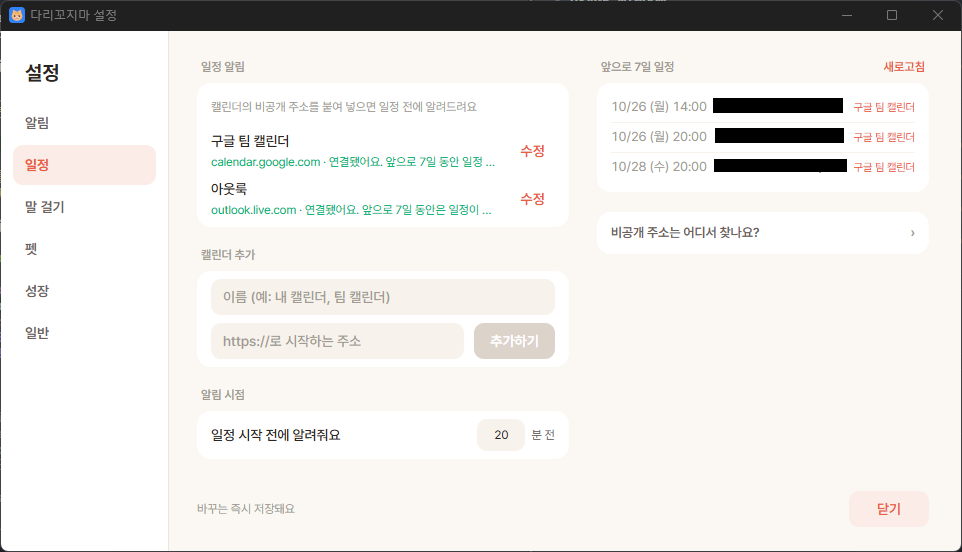
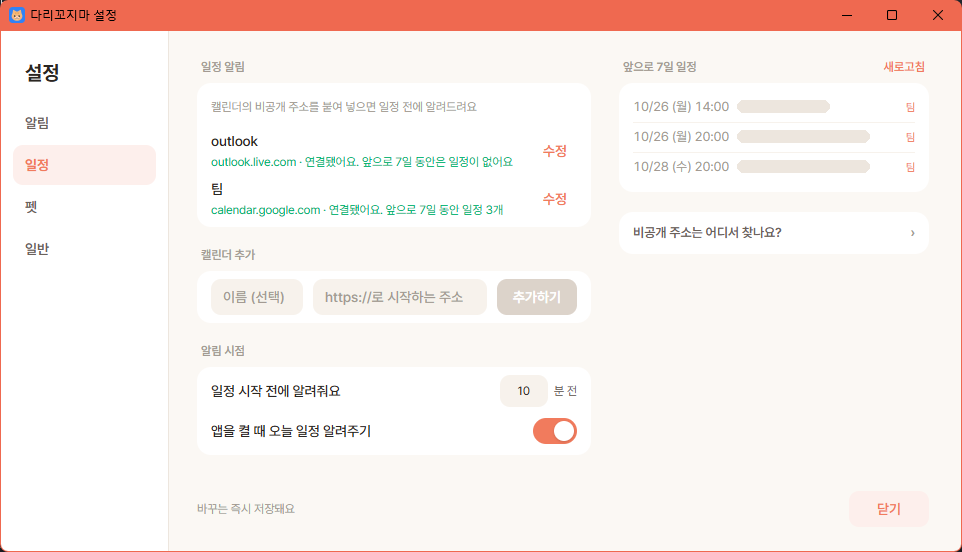
docs: README 설정 탭 4개 기준으로 스크린샷·설명 갱신
일정 탭 스크린샷의 일정 제목은 가림 처리

diff --git a/README.md b/README.md
@@ -38,7 +38,8 @@ Mac에서는 아직 전체화면 앱을 감지하지 않아서, 발표 중에도
 | 하고 싶은 것 | 방법 |
 |---|---|
 | 펫 옮기기 | 펫을 끌어서 놓아요. 다음에 켜도 그 자리에 있어요. 끄는 동안 펫이 달려가거나 헤엄쳐요. 화면 밖으로 너무 밀면 싫다며 돌아오지만, 한 번 더 밀면 따라 줘요. |
-| 펫과 놀기 | 마우스를 올리면 웃고, 클릭하면 한마디를 해요. |
+| 펫과 놀기 | 마우스를 올리면 웃고, 클릭하면 한마디를 해요. 꾹 누르고 있으면 버둥거려요. |
+| 펫 재우기 | 키보드와 마우스를 10분 넘게 쓰지 않으면 펫이 엎드려 잠들어요. 돌아와서 움직이면 깨요. |
 | 알림에 답하기 | 말풍선의 **했어요**를 누르면 닫혀요. **5분 뒤에 다시**는 5분 뒤에 다시 알려 주고, **오늘은 그만**은 그 알림만 내일까지 꺼요. |
 | 설정 열기 | 펫을 오른쪽 클릭하거나, 작업표시줄 오른쪽 아래(숨겨진 아이콘 포함) 트레이 아이콘의 **설정**을 눌러요. |
 | 조용히 하기 | 펫 우클릭 → **조용히 하기**. 펫 입에 X자 테이프가 붙고, **다시 말 걸기**를 누를 때까지 말을 걸지 않아요 (트레이 메뉴에도 있어요) |
@@ -58,17 +59,19 @@ Mac에서는 아직 전체화면 앱을 감지하지 않아서, 발표 중에도
 | 점심시간 30분 전 | "점심 뭐 먹을까요?" **추천해 줘요**를 누르면 메뉴를 골라 줘요. 마음에 안 들면 **다시**. |
 | 퇴근 3시간 전, 1시간 전 | "퇴근까지 1시간이에요" |
 | 퇴근 5분 전 | "오늘도 수고했어요" (금요일은 주말 인사) |
-| 근무 중 가끔 (35~80분마다) | "심심하네요… 바쁘신가요?" 자고 있었으면 하품하며 깨서 말해요. |
+| 근무 중 가끔 (35~80분마다) | "심심하네요… 바쁘신가요?" |
 
 점심 메뉴는 펫을 오른쪽 클릭 → **부탁하기** → **점심 메뉴 추천**으로 아무 때나 뽑을 수도 있어요. 조용히 모드나 전체화면 중에는 말을 걸지 않아요.
 
 ## 설정하기
 
-설정 창은 왼쪽 메뉴의 **알림**, **일정**, **말 걸기**, **펫**, **성장**, **일반** 여섯 탭이에요. 바꾸는 즉시 저장되고 펫에게도 바로 반영돼요. 다 고쳤으면 **닫기**만 누르면 돼요.
+설정 창은 왼쪽 메뉴의 **알림**, **일정**, **펫**, **일반** 네 탭이에요. 바꾸는 즉시 저장되고 펫에게도 바로 반영돼요. 다 고쳤으면 **닫기**만 누르면 돼요.
 
 **알림 탭**
 - **알려줄 것들:** 다리 꼬지 않기, 허리 펴기, 물 마시기, 스트레칭을 켜고 끄고, 몇 분마다 알려 줄지 정해요. 아래 입력창에 "약 먹기"처럼 쓰고 **추가하기**를 누르면 내가 만든 알림도 넣을 수 있어요.
+- **펫이 먼저 말 걸기:** 켤 때 인사, 점심 메뉴 추천, 퇴근 카운트다운, 퇴근 인사, 심심할 때 수다를 눌러서 켜고 꺼요. 마우스를 올리면 자세한 설명이 보여요.
 - **알림 시간:** 일하는 시간, 요일, 점심시간을 정해요. 이 밖의 시간에는 알리지 않아요.
+- **점심 메뉴:** **수정**을 누르면 룰렛에 나오는 메뉴를 추가하거나 지울 수 있어요.
 
 <img src="docs/screenshots/settings-remind.png" alt="설정 - 알림 탭" width="640">
 
@@ -79,30 +82,18 @@ Mac에서는 아직 전체화면 앱을 감지하지 않아서, 발표 중에도
 
 <img src="docs/screenshots/settings-calendar.png" alt="설정 - 일정 탭" width="640">
 
-**말 걸기 탭**
-- **펫이 먼저 말을 걸어요:** 앱을 켤 때 인사, 점심 메뉴 추천, 퇴근 알림, 퇴근 5분 전 인사, 가끔 심심하다고 말 걸기를 각각 켜고 끌 수 있어요.
-- **점심 메뉴:** 기본 메뉴가 들어 있어요. 내가 자주 가는 메뉴를 추가하거나, 싫은 메뉴를 지울 수 있어요.
-
-<img src="docs/screenshots/settings-talk.png" alt="설정 - 말 걸기 탭" width="640">
-
 **펫 탭**
-- **펫 고르기:** 고양이, 강아지, 토끼, AI봇 중에 눌러서 고르면 펫이 바로 바뀌어 보여요. 펫마다 이름과 색깔(4가지)을 정할 수 있어요.
-- **펫 크기:** 슬라이더로 50%에서 150% 사이로 정해요. 움직이는 동안 바로 보여요.
-- **펫 아래 표시:** 레벨과 이름을 펫 아래에 보일지 정해요.
+- **미리보기:** 지금 입은 옷 그대로 펫이 보이고, 아래에 친밀도 레벨이 있어요. 알림에 **했어요**를 누르거나, 펫을 쓰다듬거나, 인사를 받으면 친해져요. 보통 일주일쯤이면 최고 레벨(Lv.10)이 되고, 레벨이 오를수록 말투가 편해지고 하는 말도 늘어요.
+- **종류, 이름, 색깔:** 고양이, 강아지, 토끼, AI봇 중에 고르고, 펫마다 이름과 색깔(4가지)을 정해요.
+- **옷장:** 펫마다 머리, 얼굴, 목에 옷을 입혀요. Lv.1, 5, 10에 열 벌 안팎씩 열리고, 미리보기에서 입은 모습을 바로 볼 수 있어요.
+- **숨은 옷:** **히든** 표시가 붙은 옷은 꾸준히 챙기다 보면 펫이 깜짝 선물로 줘요. 마우스를 올리면 힌트가 보여요.
 
 <img src="docs/screenshots/settings-pet.png" alt="설정 - 펫 탭" width="640">
 
-**성장 탭**
-- **친밀도:** 알림에 **했어요**를 누르거나, 펫을 쓰다듬거나, 인사를 받으면 친해져요. 보통 일주일쯤이면 최고 레벨(Lv.10)이 돼요. 레벨이 오를수록 펫의 말투가 편해지고 하는 말도 늘어요.
-- **옷장:** 펫마다 머리, 얼굴, 목에 옷을 입혀요. Lv.1, 5, 10에 열 벌 안팎씩 열리고, 위의 미리보기에서 입은 모습을 바로 볼 수 있어요.
-- **숨은 옷:** **히든** 표시가 붙은 옷은 꾸준히 챙기다 보면 펫이 깜짝 선물로 줘요. 마우스를 올리면 힌트가 보여요.
-- **친밀도 초기화:** 레벨과 기록, 받은 숨은 옷을 모두 지워요. 되돌릴 수 없어요.
-
-<img src="docs/screenshots/settings-grow.png" alt="설정 - 성장 탭" width="640">
-
 **일반 탭**
 - **화면:** 라이트/다크(또는 Windows 설정 따라가기)와 대표 색(코랄, 블루, 민트, 라벤더, 차콜)을 골라요.
-- 컴퓨터를 켜면 같이 시작할지 정해요. **모두 초기화**로 처음 상태로 되돌릴 수도 있어요(되돌릴 수 없어요).
+- **펫 표시:** 펫 크기(50%~150%)와 펫 아래에 레벨·이름을 보일지 정해요. 펫이 안 보이면 **펫 위치 초기화**를 눌러요.
+- **기본 설정:** 컴퓨터를 켜면 같이 시작할지 정해요. **친밀도 초기화**는 레벨과 기록, 받은 숨은 옷을, **모두 초기화**는 모든 설정을 처음 상태로 되돌려요(둘 다 되돌릴 수 없어요).
 - 앱 버전과 GitHub 링크가 있어요.
 
 <img src="docs/screenshots/settings-general.png" alt="설정 - 일반 탭" width="640">
